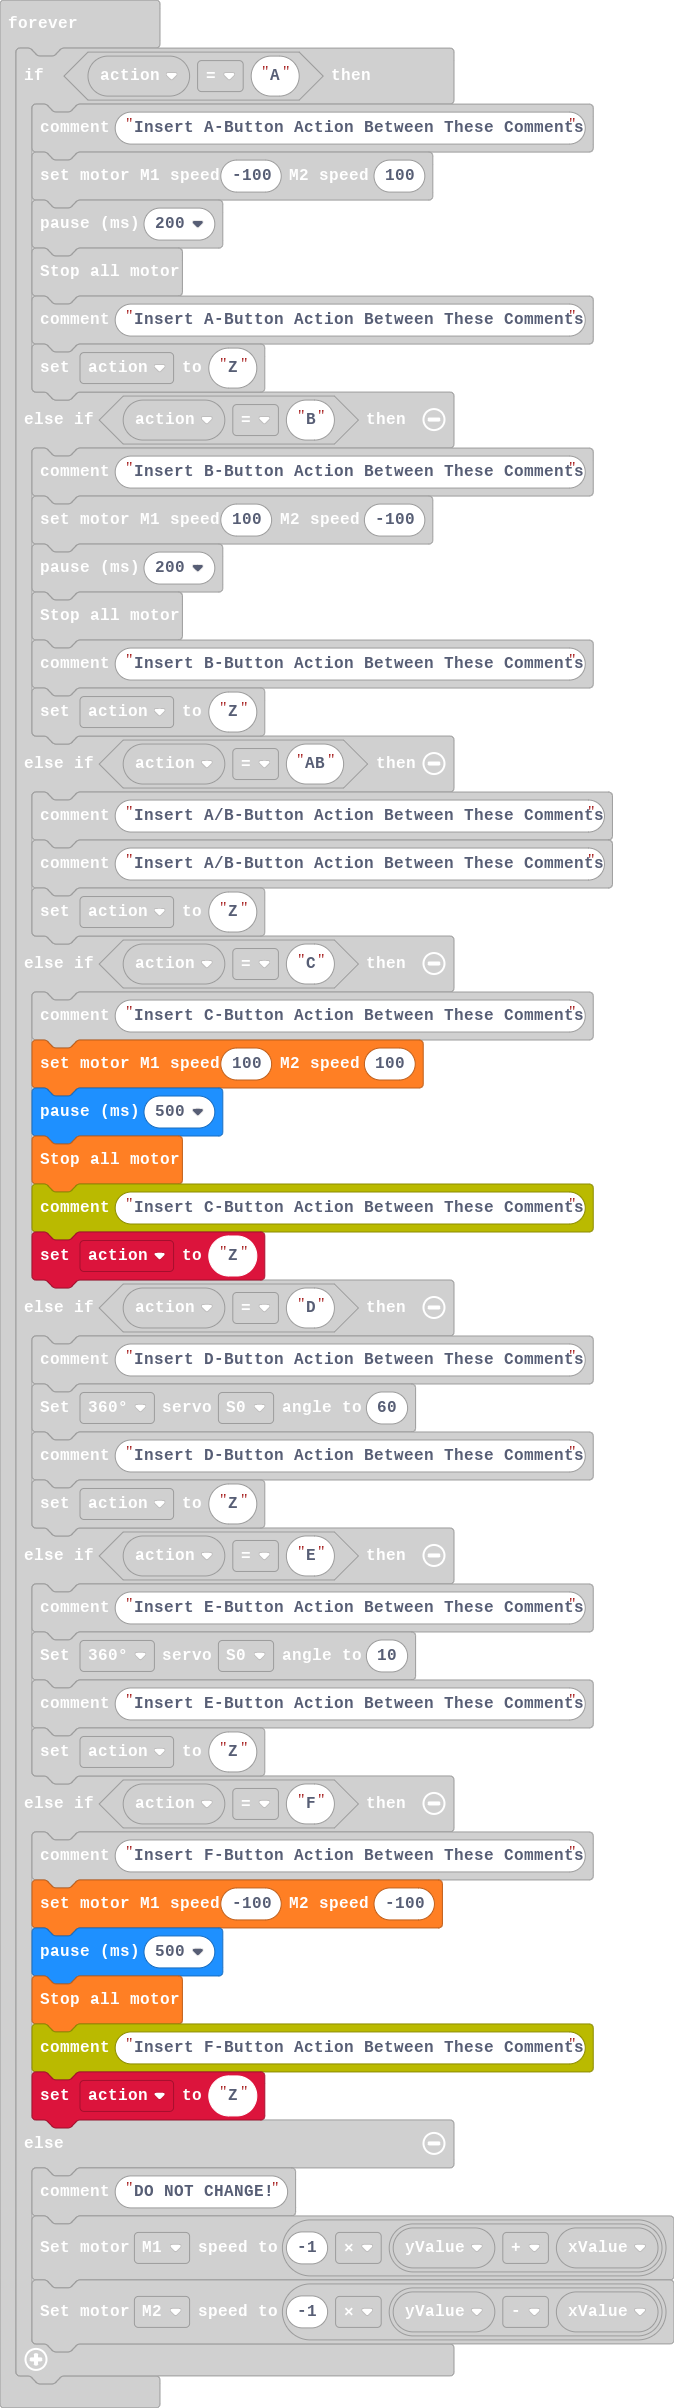
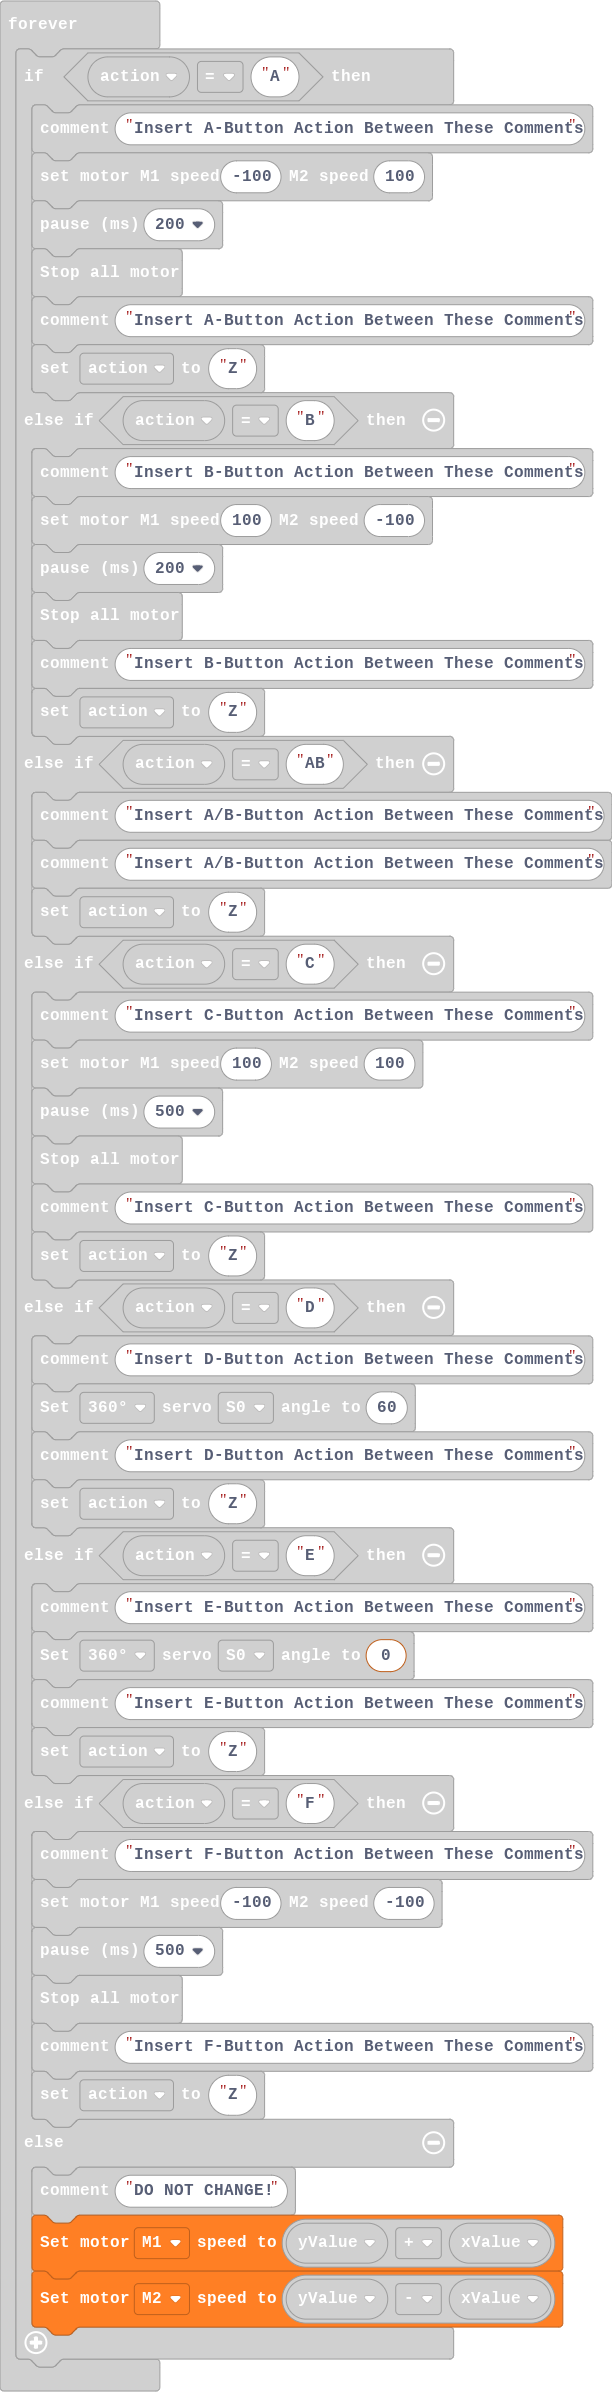
Update main.blocks, main.ts

diff --git a/main.ts b/main.ts
@@ -68,7 +68,7 @@ basic.forever(function () {
         action = "Z"
     } else if (action == "E") {
         comment.comment("Insert E-Button Action Between These Comments")
-        wuKong.setServoAngle(wuKong.ServoTypeList._360, wuKong.ServoList.S0, 10)
+        wuKong.setServoAngle(wuKong.ServoTypeList._360, wuKong.ServoList.S0, 0)
         comment.comment("Insert E-Button Action Between These Comments")
         action = "Z"
     } else if (action == "F") {
@@ -80,7 +80,7 @@ basic.forever(function () {
         action = "Z"
     } else {
         comment.comment("DO NOT CHANGE!")
-        wuKong.setMotorSpeed(wuKong.MotorList.M1, -1 * (yValue + xValue))
-        wuKong.setMotorSpeed(wuKong.MotorList.M2, -1 * (yValue - xValue))
+        wuKong.setMotorSpeed(wuKong.MotorList.M1, yValue + xValue)
+        wuKong.setMotorSpeed(wuKong.MotorList.M2, yValue - xValue)
     }
 })
